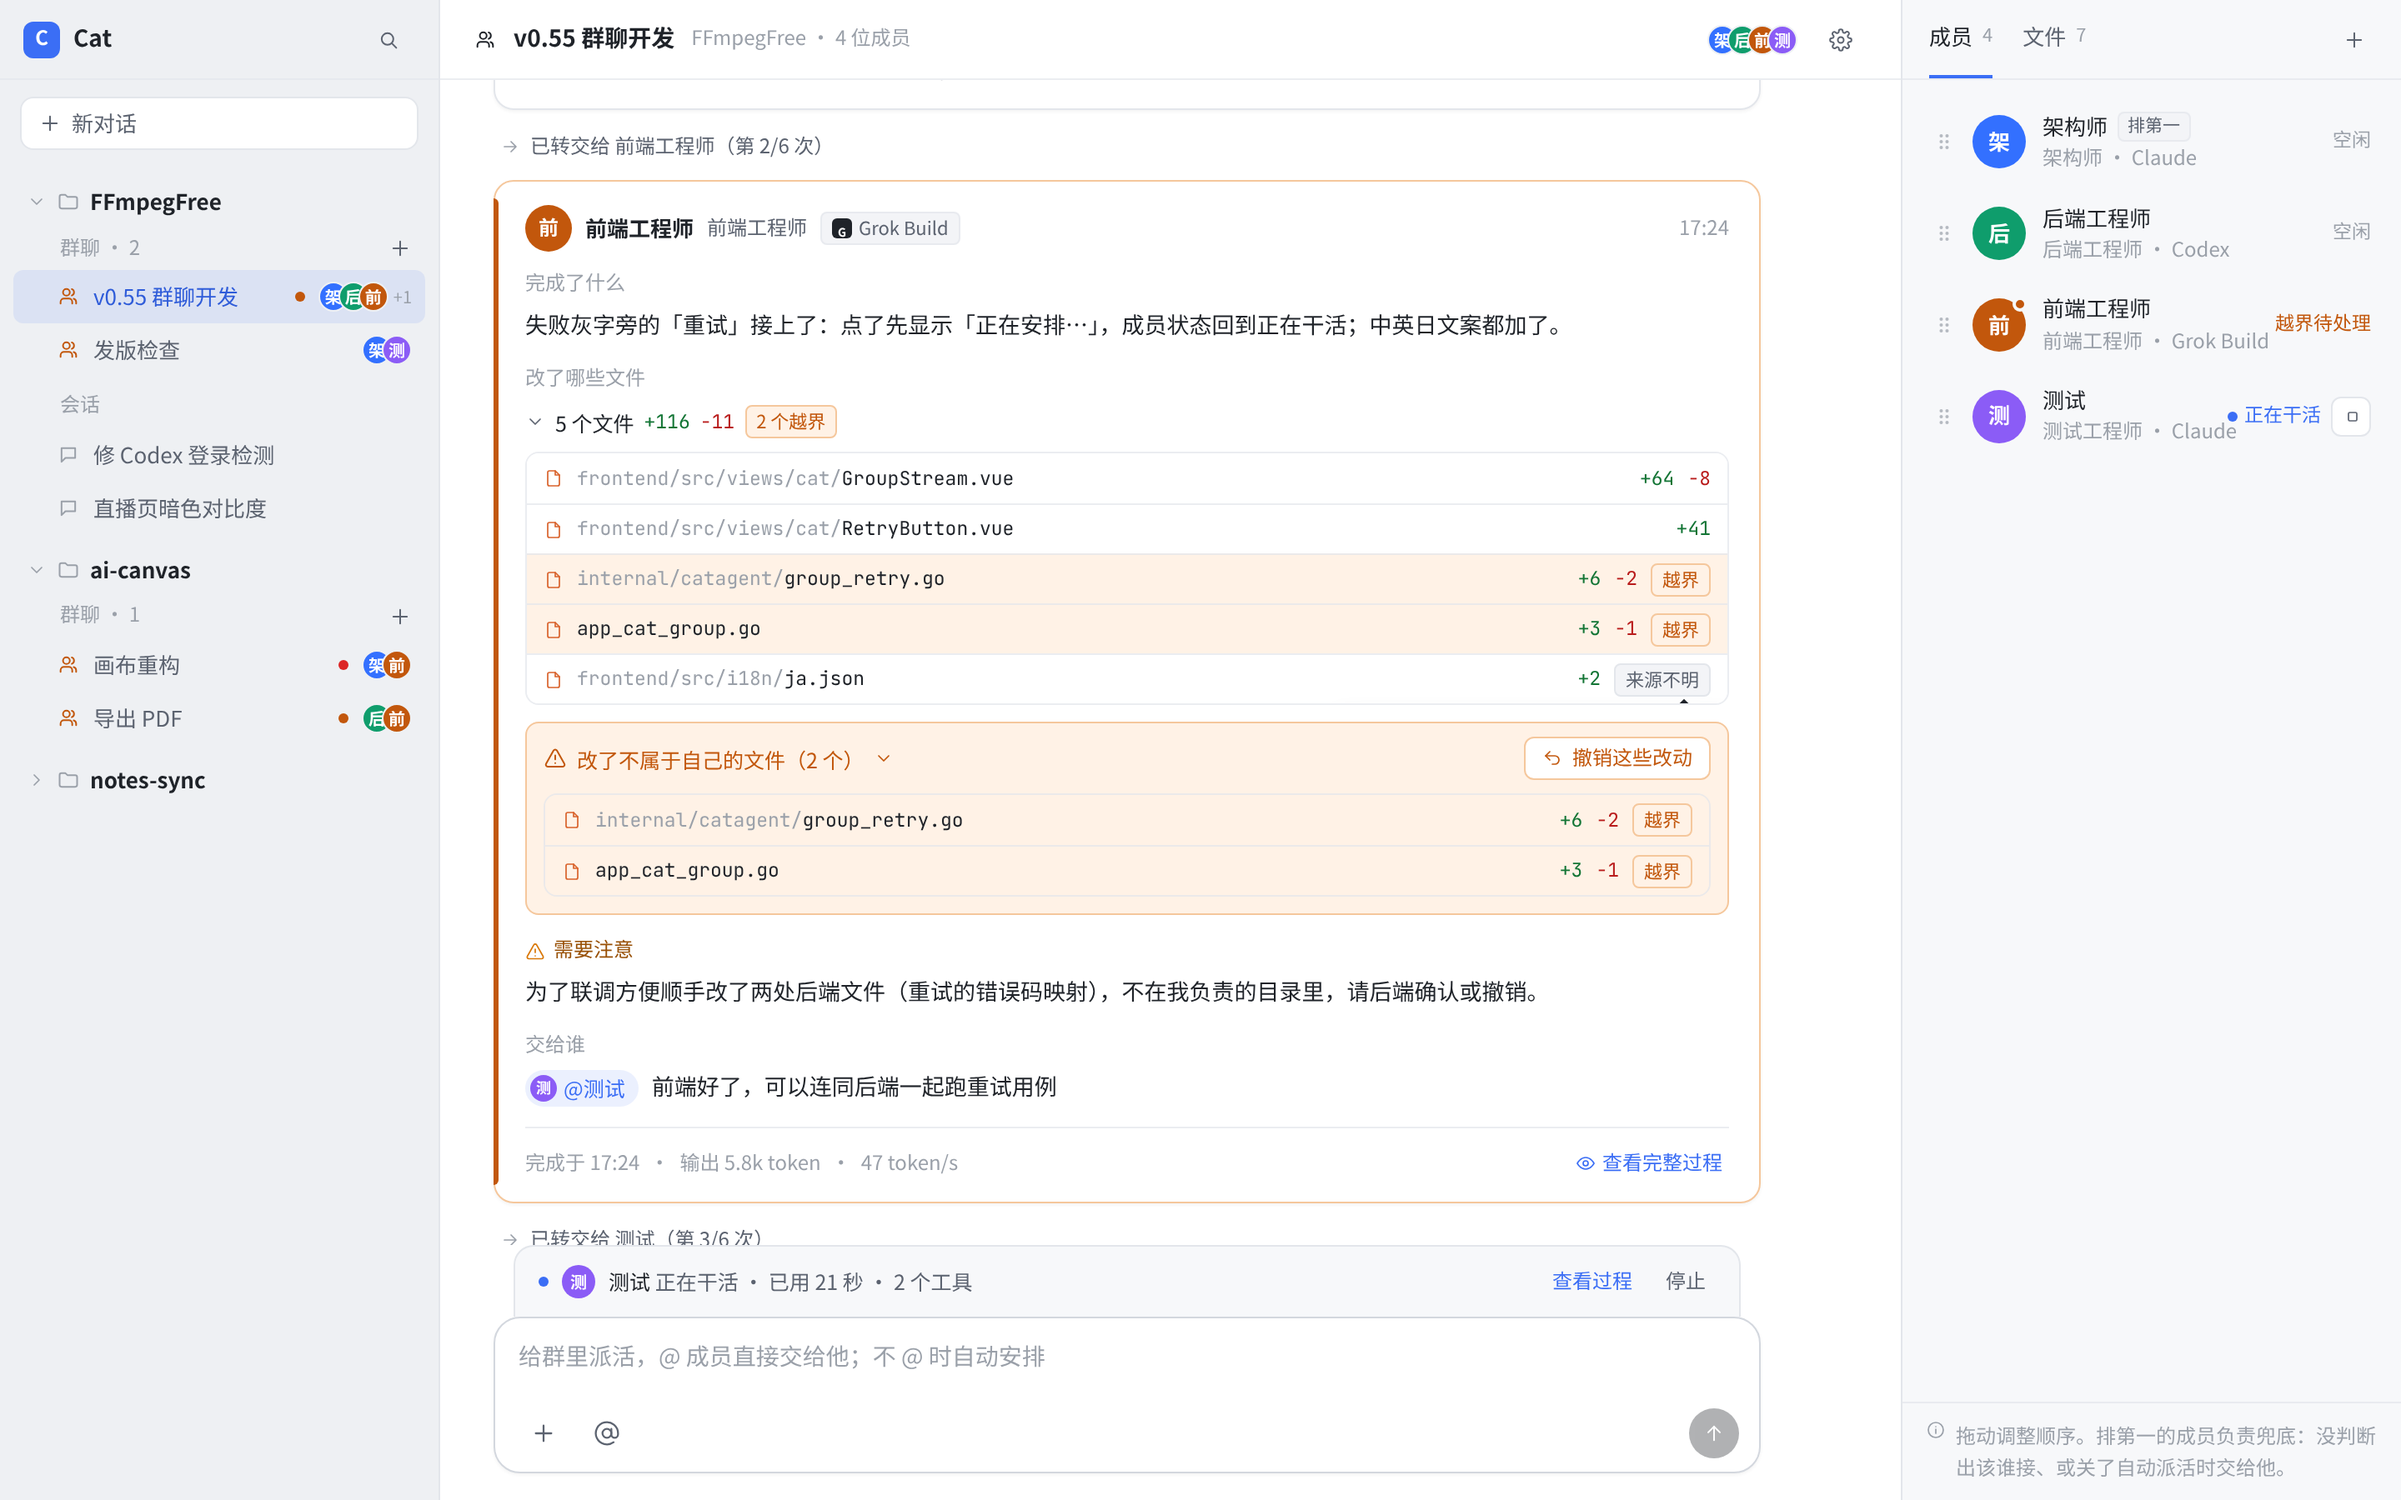
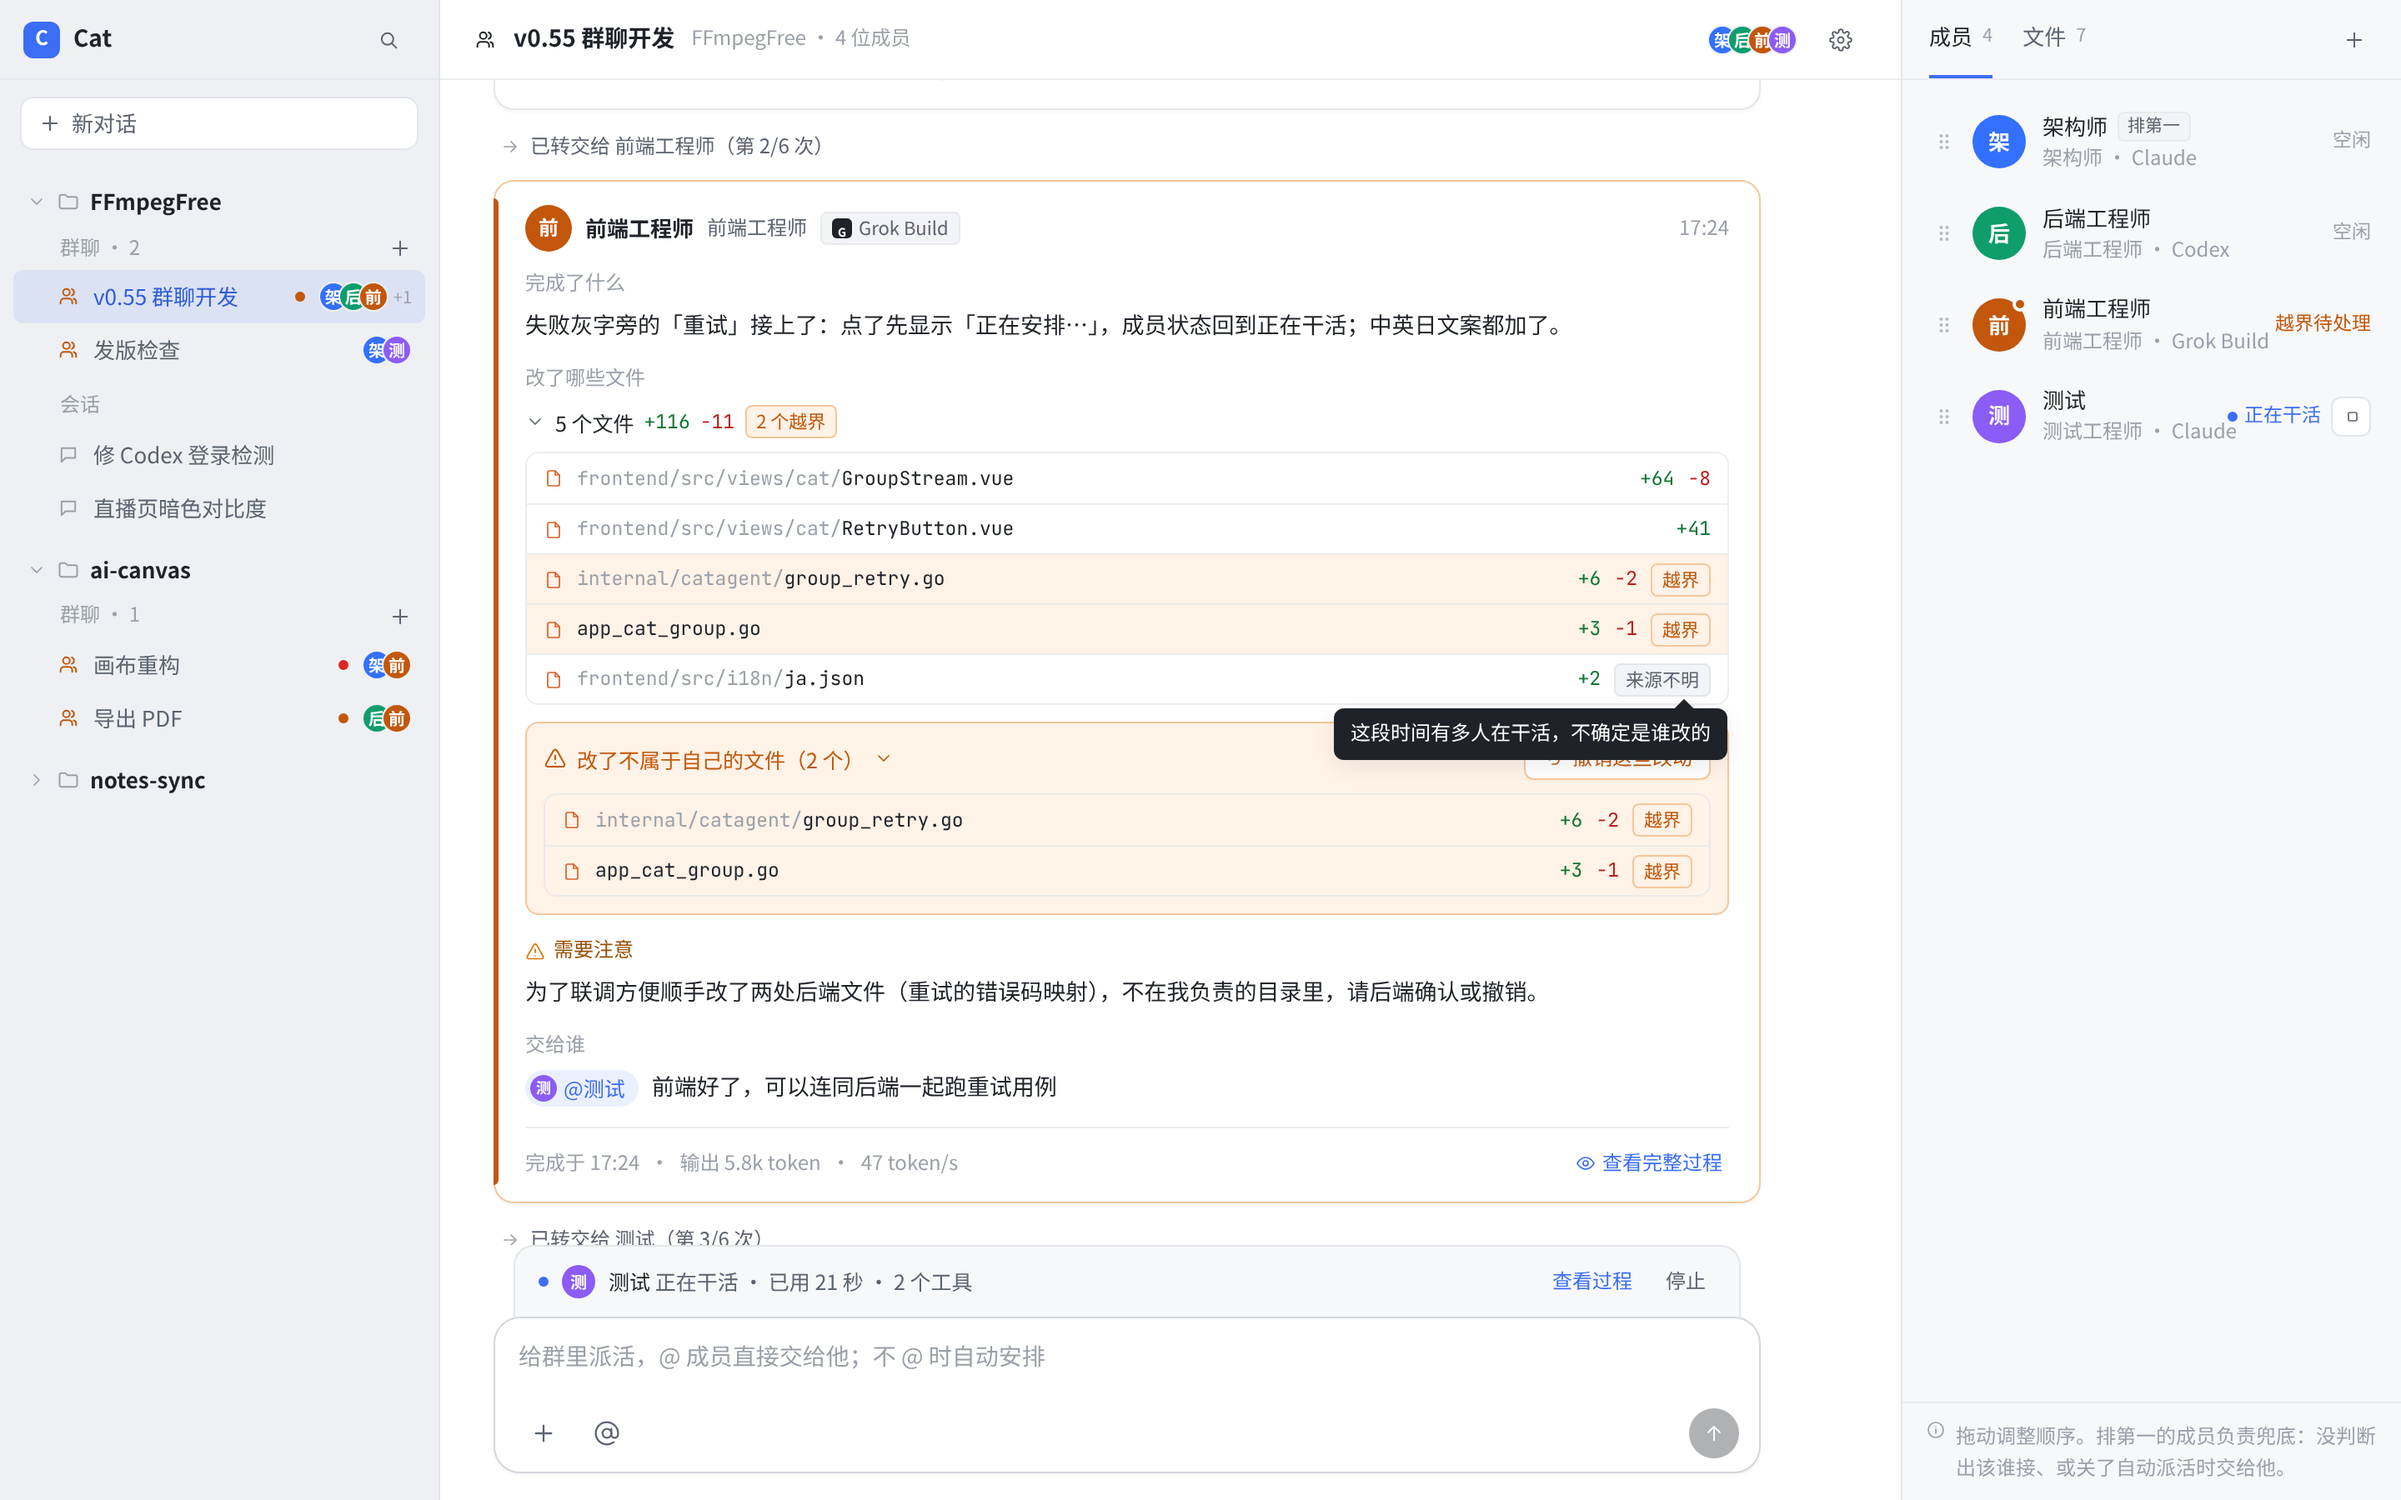
design(cat): 修来源不明提示被裁、汇报场景定位

Changed region(s): [[0.5312, 0.4667, 0.7188, 0.5289]]

diff --git a/proto/cat-project-group/g.js b/proto/cat-project-group/g.js
@@ -266,7 +266,7 @@ SC.working = () => ({
   right: right({ st: { a: 'idle', b: 'idle', f: 'run', q: 'run' } }),
 });
 SC.report = () => ({
-  scroll: 'top',
+  focus: '.rep', focusIdx: 1,
   center: centerWrap(chead(), `<div class="daysep">今天</div>
     ${R_ARCH()}
     ${gl('已转交给 后端工程师（第 1/6 次）')}${gl('已转交给 前端工程师（第 1/6 次）')}
@@ -386,7 +386,7 @@ function render() {
   document.title = `Cat 群聊 · ${S}`;
   const st = document.querySelector('.stream');
   if (st) {
-    if (sc.focus) { const el = st.querySelector(sc.focus); if (el) st.scrollTop = el.offsetTop - st.offsetTop - 12; }
+    if (sc.focus) { const el = st.querySelectorAll(sc.focus)[sc.focusIdx || 0]; if (el) st.scrollTop = el.offsetTop - st.offsetTop - 12; }
     else if (sc.scroll !== 'top') st.scrollTop = st.scrollHeight;
   }
 }

diff --git a/proto/cat-project-group/g.css b/proto/cat-project-group/g.css
@@ -272,3 +272,6 @@ html.dark .cli-g{background:#e8eaed;color:#16171a}
 code{font-family:var(--ff-font-mono);font-size:12px;background:var(--cat-code-bg);border:1px solid var(--cat-divider);border-radius:4px;padding:0 4px}
 .mst{display:flex;align-items:center;gap:6px;flex:none}
 .stream{position:relative}
+.flist{overflow:visible}
+.frow:first-child{border-radius:7px 7px 0 0}.frow:last-child{border-radius:0 0 7px 7px}.frow:only-child{border-radius:7px}
+.frow .tip{top:32px;right:0}
